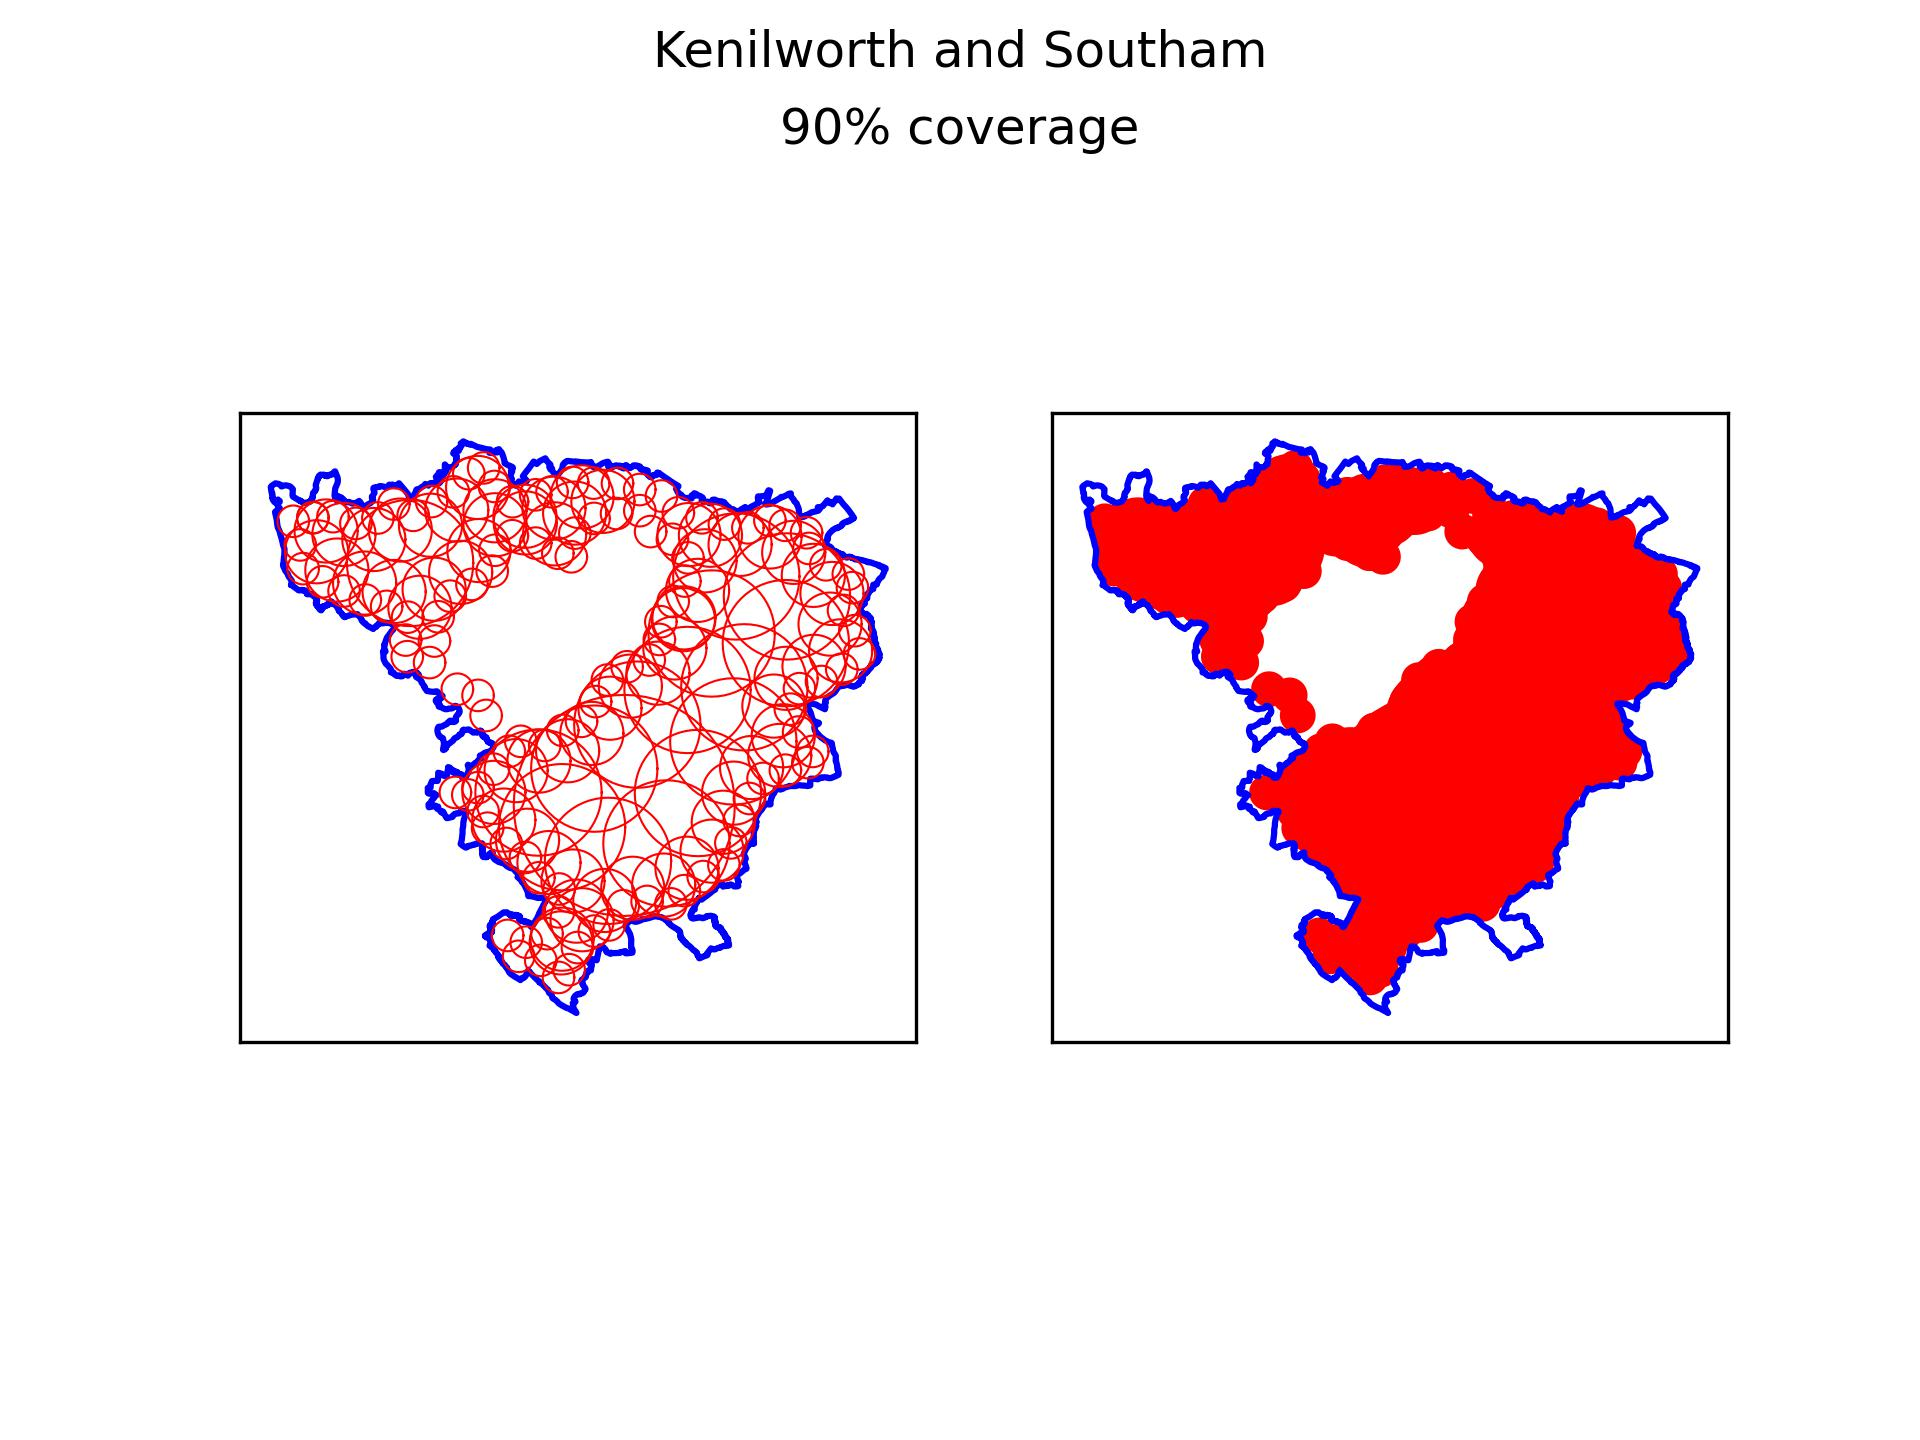
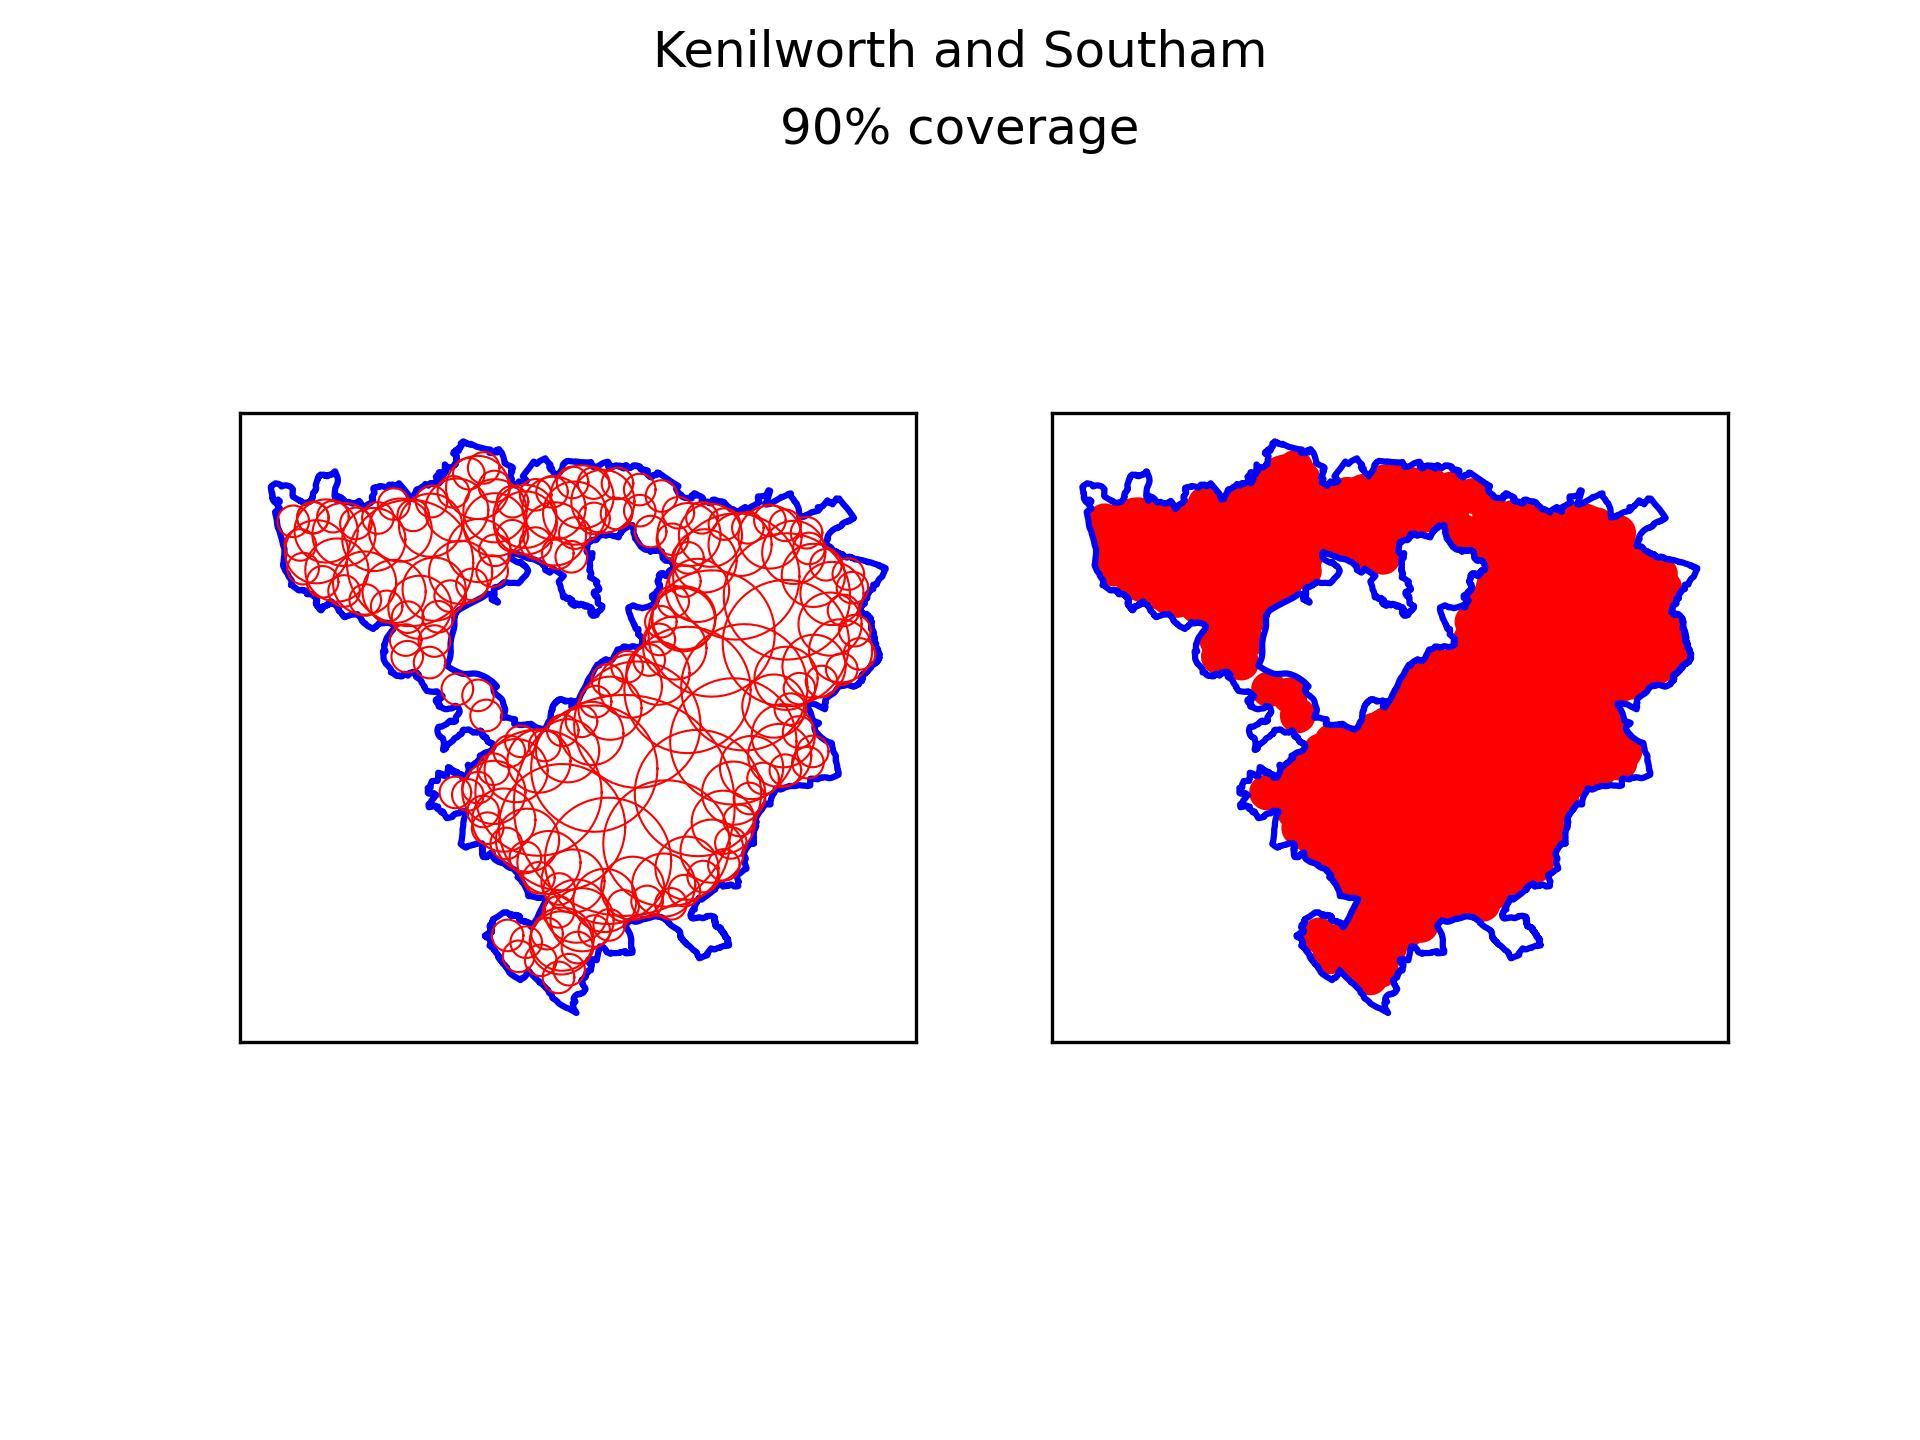
Restructure file and plot interior rings

Changed region(s): [[0.6562, 0.3438, 0.7812, 0.5312], [0.2188, 0.3438, 0.375, 0.4688], [0.25, 0.4688, 0.3125, 0.5312]]

diff --git a/generate_bubbles.py b/generate_bubbles.py
@@ -27,10 +27,6 @@ def download_and_extract(url, path):
         zip_file = zipfile.ZipFile(io.BytesIO(response.content))
         zip_file.extractall('data/' + path)
 
-download_and_extract(england_shapefile_url, 'england')
-download_and_extract(scotland_shapefile_path, 'scotland')
-download_and_extract(wales_shapefile_path, 'wales')
-
 def create_constituency_list(shapefile_path, constituency_name_key):
    constituencies = []
    with fiona.open('data/' + shapefile_path) as boundaries:
@@ -38,17 +34,6 @@ def create_constituency_list(shapefile_path, constituency_name_key):
       constituency_shape = make_valid(shape(constituency['geometry']))
       constituencies.append((constituency.properties[constituency_name_key], constituency_shape))
     return constituencies
-
-england_constituencies = create_constituency_list('england/' + england_shapefile_filename, 'Constituen')
-scotland_constituencies = create_constituency_list('scotland/' + scotland_shapefile_filename, 'NAME')
-wales_constituencies = create_constituency_list('wales/' + wales_shapefile_filename, 'Official_N')
-
-constituencies = england_constituencies + scotland_constituencies + wales_constituencies
-
-if not os.path.exists('output'):
-    os.makedirs('output')
-
-transformer = pyproj.Transformer.from_crs("epsg:27700", "epsg:4326")
 
 def calculate_radius_upper_bound(boundary):
   mrr = minimum_rotated_rectangle(boundary)
@@ -102,64 +87,82 @@ def calculate_bubbles(boundary):
 
   return bubbles[:BUBBLE_LIMIT], bubblesData[:BUBBLE_LIMIT]
 
-with (
-  open('output/bubbles.csv', 'w') as csv_output,
-  open('output/statistics.csv', 'w') as stastics_output
-):
-  output_writer = csv.writer(csv_output)
-  output_writer.writerow(['bubble', 'constituency'])
+if __name__ == '__main__':
+  download_and_extract(england_shapefile_url, 'england')
+  download_and_extract(scotland_shapefile_path, 'scotland')
+  download_and_extract(wales_shapefile_path, 'wales')
 
-  statistics_writer = csv.writer(stastics_output)
-  statistics_writer.writerow(['constituency', 'coverage'])
+  england_constituencies = create_constituency_list('england/' + england_shapefile_filename, 'Constituen')
+  scotland_constituencies = create_constituency_list('scotland/' + scotland_shapefile_filename, 'NAME')
+  wales_constituencies = create_constituency_list('wales/' + wales_shapefile_filename, 'Official_N')
 
-  statistics = []
+  constituencies = england_constituencies + scotland_constituencies + wales_constituencies
 
-  for constituency in constituencies:
-    constituency_name = constituency[0]
-    boundary = constituency[1]
-    print(constituency_name)
+  if not os.path.exists('output'):
+      os.makedirs('output')
 
-    bubbles, bubblesData = calculate_bubbles(boundary)
+  transformer = pyproj.Transformer.from_crs("epsg:27700", "epsg:4326")
 
-    for (x, y, radius) in bubblesData:
-      lat, long = transformer.transform(x, y)
-      output_writer.writerow(['({}, {}) +{}km'.format(lat, long, radius), constituency_name])
+  with (
+    open('output/bubbles.csv', 'w') as csv_output,
+    open('output/statistics.csv', 'w') as stastics_output
+  ):
+    output_writer = csv.writer(csv_output)
+    output_writer.writerow(['bubble', 'constituency'])
 
-    fig, ax = plt.subplots(1, 2)
-    ax[0].set_aspect('equal', adjustable='box')
-    ax[1].set_aspect('equal', adjustable='box')
-    fig.suptitle(constituency_name)
-    coverage_percentage = 100 * union_all(bubbles).area / boundary.area
+    statistics_writer = csv.writer(stastics_output)
+    statistics_writer.writerow(['constituency', 'coverage'])
 
-    statistics_writer.writerow([constituency_name, coverage_percentage])
-    statistics.append(coverage_percentage)
-    fig.text(0.5, 0.9, '{:.0f}% coverage'.format(coverage_percentage), ha='center', fontsize=12)
+    statistics = []
 
-    ax[0].xaxis.set_visible(False)
-    ax[0].yaxis.set_visible(False)
+    for constituency in constituencies:
+      constituency_name = constituency[0]
+      boundary = constituency[1]
+      print(constituency_name)
 
-    ax[1].xaxis.set_visible(False)
-    ax[1].yaxis.set_visible(False)
+      bubbles, bubblesData = calculate_bubbles(boundary)
 
-    polygons = boundary.geoms if isinstance(boundary, GeometryCollection) or isinstance(boundary, MultiPolygon) else [boundary]
-    for polygon in polygons:
-      if isinstance(polygon, LineString):
-        continue
-      x, y = polygon.exterior.xy
-      ax[0].plot(x, y, color='blue')
-      ax[1].plot(x, y, color='blue')
+      for (x, y, radius) in bubblesData:
+        lat, long = transformer.transform(x, y)
+        output_writer.writerow(['({}, {}) +{}km'.format(lat, long, radius), constituency_name])
 
-    for valid_circle in bubbles:
-      x, y = valid_circle.exterior.xy
-      ax[0].plot(x, y, color='red', linewidth=0.5)
-      ax[1].fill(x, y, color='red')
+      fig, ax = plt.subplots(1, 2)
+      ax[0].set_aspect('equal', adjustable='box')
+      ax[1].set_aspect('equal', adjustable='box')
+      fig.suptitle(constituency_name)
+      coverage_percentage = 100 * union_all(bubbles).area / boundary.area
 
-    fig.savefig('output/JPGs/' + constituency_name + '.jpg', dpi=300)
-    plt.close(fig)
-  
-  statistics_writer.writerow(['', ''])
-  statistics_writer.writerow(['mean', sum(statistics) / len(statistics)])
-  statistics_writer.writerow(['median', np.median(statistics)])
-  statistics_writer.writerow(['min', min(statistics)])
-  statistics_writer.writerow(['max', max(statistics)])
-  statistics_writer.writerow(['sigma', np.std(statistics)])
+      statistics_writer.writerow([constituency_name, coverage_percentage])
+      statistics.append(coverage_percentage)
+      fig.text(0.5, 0.9, '{:.0f}% coverage'.format(coverage_percentage), ha='center', fontsize=12)
+
+      ax[0].xaxis.set_visible(False)
+      ax[0].yaxis.set_visible(False)
+
+      ax[1].xaxis.set_visible(False)
+      ax[1].yaxis.set_visible(False)
+
+      polygons = boundary.geoms if isinstance(boundary, GeometryCollection) or isinstance(boundary, MultiPolygon) else [boundary]
+      for polygon in polygons:
+        if isinstance(polygon, LineString):
+          continue
+        rings = [polygon.exterior] + [interior for interior in polygon.interiors]
+        for ring in rings:
+          x, y = ring.xy
+          ax[0].plot(x, y, color='blue')
+          ax[1].plot(x, y, color='blue')
+
+      for valid_circle in bubbles:
+        x, y = valid_circle.exterior.xy
+        ax[0].plot(x, y, color='red', linewidth=0.5)
+        ax[1].fill(x, y, color='red')
+
+      fig.savefig('output/JPGs/' + constituency_name + '.jpg', dpi=300)
+      plt.close(fig)
+    
+    statistics_writer.writerow(['', ''])
+    statistics_writer.writerow(['mean', sum(statistics) / len(statistics)])
+    statistics_writer.writerow(['median', np.median(statistics)])
+    statistics_writer.writerow(['min', min(statistics)])
+    statistics_writer.writerow(['max', max(statistics)])
+    statistics_writer.writerow(['sigma', np.std(statistics)])
